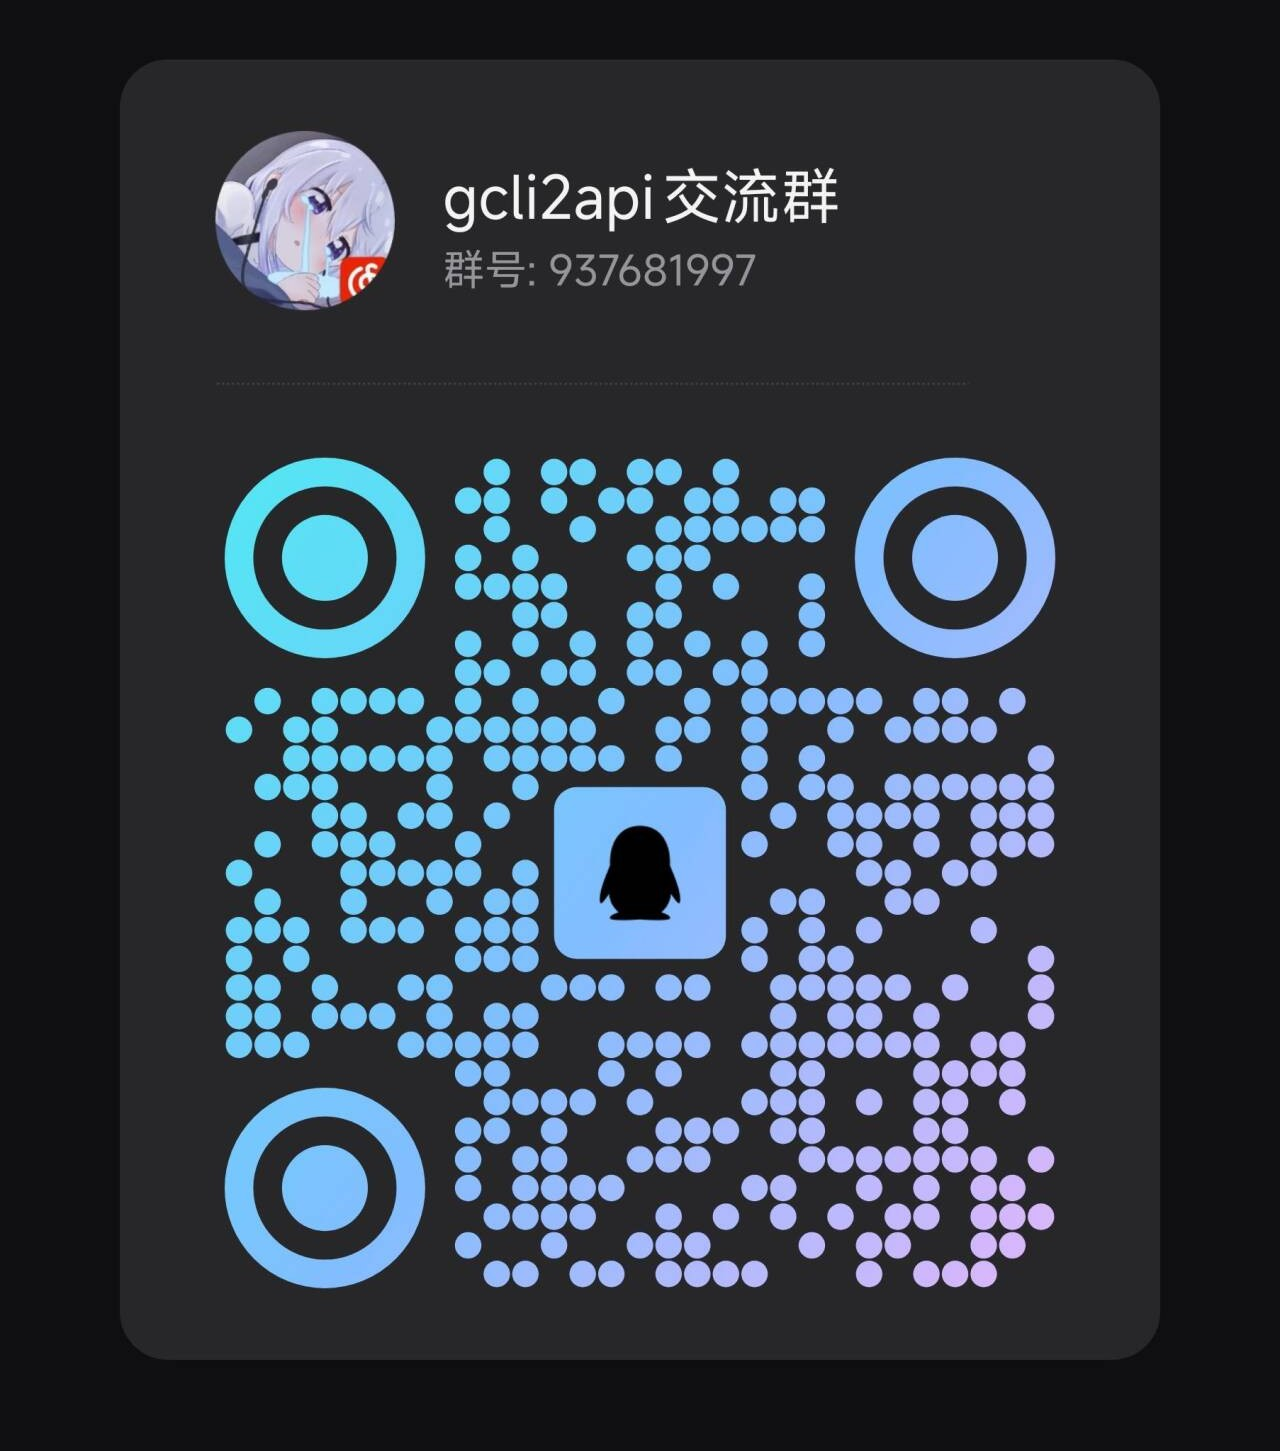
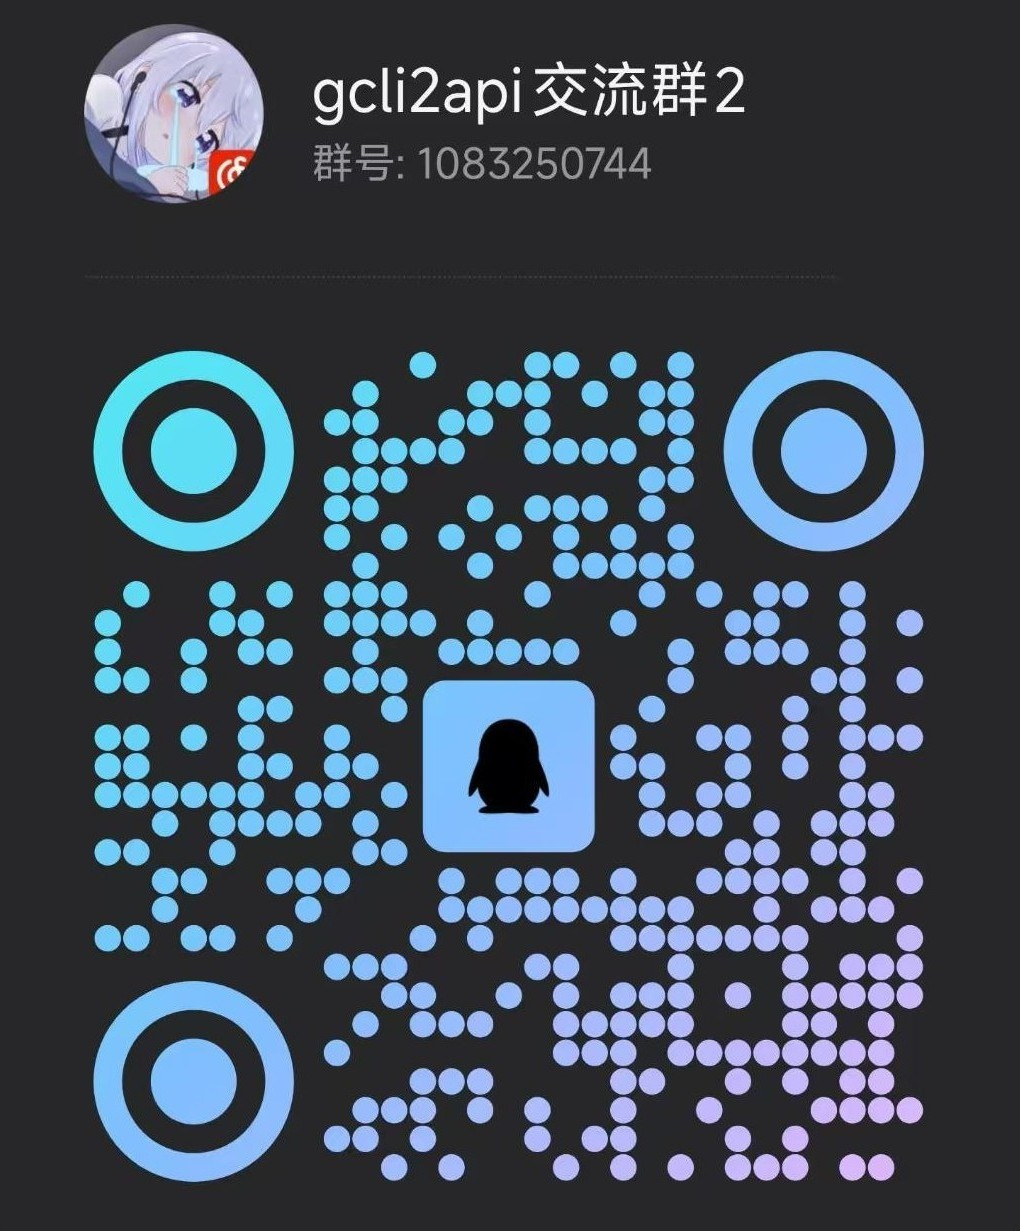
更新说明

diff --git a/front/control_panel_mobile.html b/front/control_panel_mobile.html
@@ -2073,7 +2073,7 @@
                     <h4 style="margin-top: 0; color: #1976d2;">💬 交流群</h4>
                     <div style="color: #1565c0; line-height: 1.6; font-size: 14px;">
                         <p>欢迎加入 QQ 群交流讨论！</p>
-                        <p style="font-size: 16px; font-weight: bold; color: #4285f4;">QQ 群号：937681997</p>
+                        <p style="font-size: 16px; font-weight: bold; color: #4285f4;">QQ 群号：1083250744</p>
                     </div>
                     <div
                         style="display: inline-block; background: white; padding: 12px; border-radius: 10px; box-shadow: 0 2px 15px rgba(0,0,0,0.1); margin-top: 10px;">

diff --git a/front/control_panel.html b/front/control_panel.html
@@ -2335,7 +2335,7 @@
                     <h4 style="margin-top: 0; color: #1976d2;">💬 交流群</h4>
                     <div style="color: #1565c0; line-height: 1.6;">
                         <p>欢迎加入 QQ 群交流讨论！</p>
-                        <p style="font-size: 18px; font-weight: bold; color: #4285f4;">QQ 群号：937681997</p>
+                        <p style="font-size: 18px; font-weight: bold; color: #4285f4;">QQ 群号：1083250744</p>
                     </div>
                     <div
                         style="display: inline-block; background: white; padding: 15px; border-radius: 12px; box-shadow: 0 2px 15px rgba(0,0,0,0.1); margin-top: 10px;">

diff --git a/docs/README_EN.md b/docs/README_EN.md
@@ -870,7 +870,7 @@ In this mode, all `system` messages are converted to `user` messages, improving 
 
 Welcome to join the QQ group for discussion!
 
-**QQ Group: 937681997**
+**QQ Group: 1083250744**
 
 <img src="qq群.jpg" width="200" alt="QQ Group QR Code">
 

diff --git a/docs/README_JA.md b/docs/README_JA.md
@@ -870,7 +870,7 @@ export COMPATIBILITY_MODE=true
 
 QQグループへの参加をお待ちしています！
 
-**QQグループ: 937681997**
+**QQグループ: 1083250744**
 
 <img src="qq群.jpg" width="200" alt="QQグループQRコード">
 

diff --git a/README.md b/README.md
@@ -870,7 +870,7 @@ export COMPATIBILITY_MODE=true
 
 欢迎加入 QQ 群交流讨论！
 
-**QQ 群号：937681997**
+**QQ 群号：1083250744**
 
 <img src="docs/qq群.jpg" width="200" alt="QQ群二维码">
 
